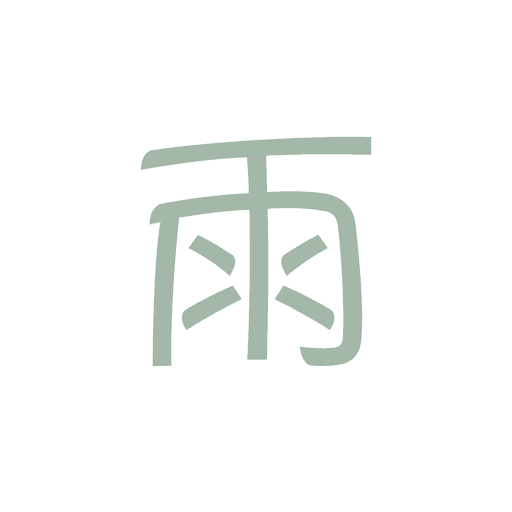
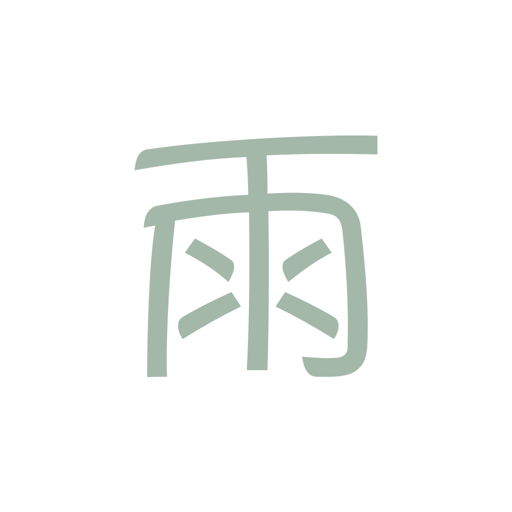
Add maskable

diff --git a/vite.config.ts b/vite.config.ts
@@ -29,17 +29,24 @@ export default defineConfig(() => {
                           short_name: "Mira",
                           description: "Rainy",
                           theme_color: "#d1d5db",
-                          background_color: "#ffffff",
                           icons: [
                               {
                                   src: "pwa-icon-192x192.png",
                                   sizes: "192x192",
-                                  type: "image/png"
+                                  type: "image/png",
+                                  purpose: "maskable"
                               },
                               {
                                   src: "pwa-icon-512x512.png",
                                   sizes: "512x512",
-                                  type: "image/png"
+                                  type: "image/png",
+                                  purpose: "maskable"
+                              },
+                              {
+                                  src: "pwa-icon-1024x1024.png",
+                                  sizes: "1024x1024",
+                                  type: "image/png",
+                                  purpose: "maskable"
                               }
                           ]
                       },
